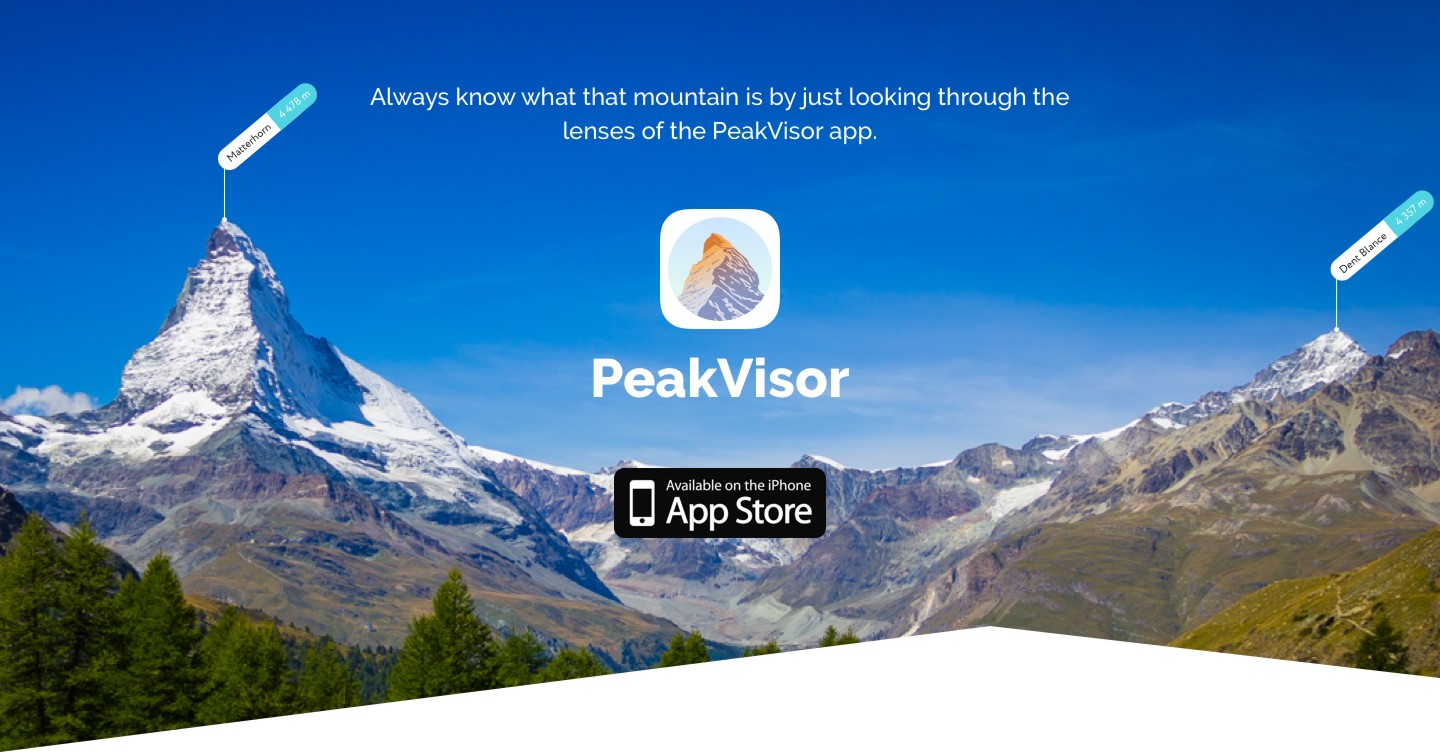
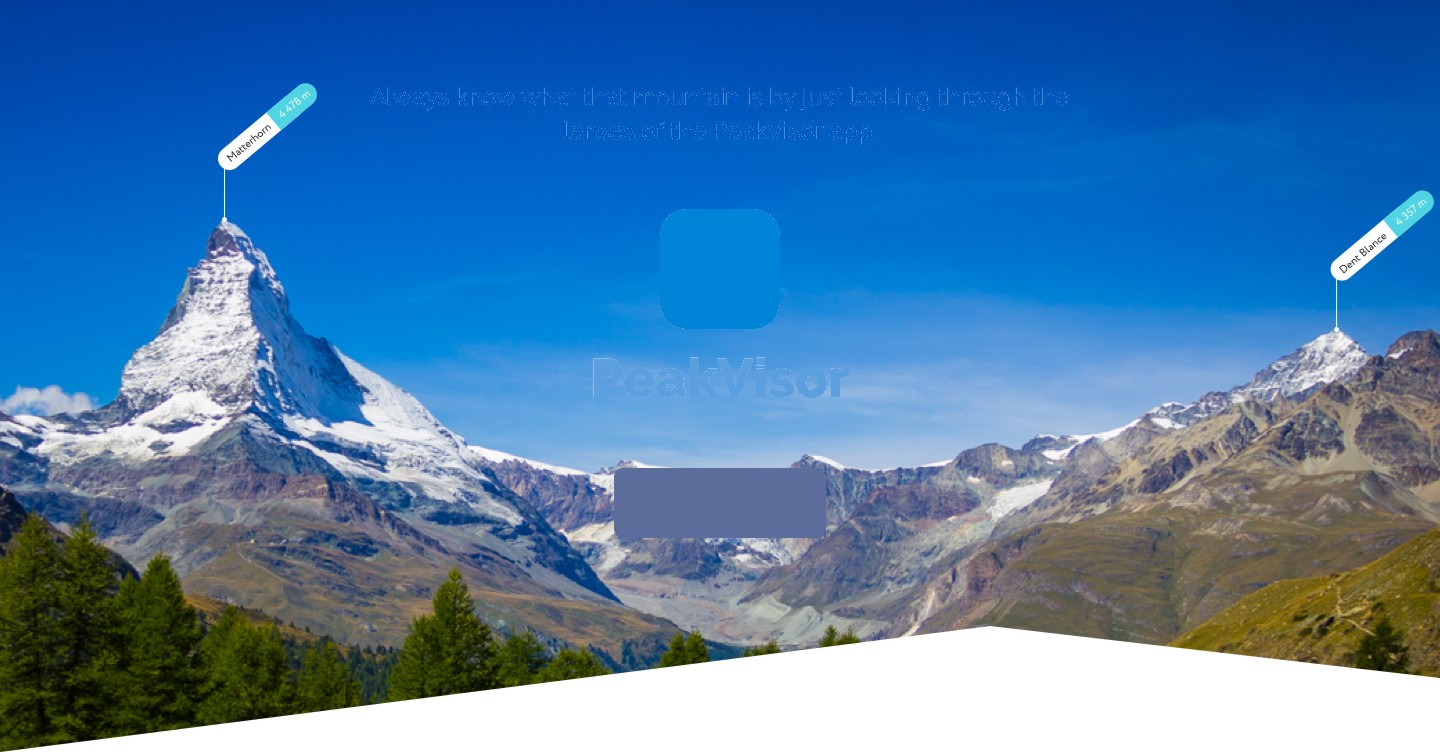
22575:: Landing update +

Changed region(s): [[0.4062, 0.2753, 0.5938, 0.5505], [0.4062, 0.6117, 0.5938, 0.734], [0.25, 0.1223, 0.75, 0.1835]]

diff --git a/public/index.html b/public/index.html
@@ -4,7 +4,7 @@
 <head itemscope itemtype="http://schema.org/WebSite">
 	<meta http-equiv="Content-Type" content="text/html; charset=UTF-8" />
 
-	<title itemprop="name">Peak Visor App</title>
+	<title itemprop="name">Peak VisorApp</title>
 	<meta name="description" content="Walk the streets of Peak Visor, solve puzzles, and learn the history & culture through a truly interactive Peak Visor experience!">
 	<link rel="image_src" href="http://peakvisor/img/pg_top.jpg" />
 
@@ -16,7 +16,7 @@
 	<!-- Twitter App Card data -->
 	<meta name="twitter:card" content="app" />
 	<meta name="twitter:description" content="Walk the streets of Peak Visor, solve puzzles, and learn the history & culture through a truly interactive Peak Visor experience!" />
-	<meta name="twitter:title" content="Peak Visor App" />
+	<meta name="twitter:title" content="PeakVisor App" />
 	<meta name="twitter:site" content="@RoutesTips" />
 	<meta name="twitter:creator" content="@RoutesTips" />
 	<meta name="twitter:image" content="http://peakvisor/img/pg_top.jpg" />
@@ -28,12 +28,12 @@
 	<meta name="twitter:app:id:googleplay" content="tips.routes.peakvisor" />
 
 	<!-- Open Graph data -->
-	<meta property="og:title" content="Peak Visor App" />
+	<meta property="og:title" content="PeakVisor App" />
 	<meta property="og:type" content="website" />
 	<meta property="og:url" content="http://peakvisor.com/" />
 	<meta property="og:image" content="http://peakvisor/img/pg_top.jpg" />
 	<meta property="og:description" content="Walk the streets of Peak Visor, solve puzzles, and learn the history & culture through a truly interactive Peak Visor experience!" />
-	<meta property="og:site_name" content="Peak Visor App" />
+	<meta property="og:site_name" content="PeakVisor App" />
 
 	<meta property="fb:app_id" content="264745753924811" />
 
@@ -52,25 +52,17 @@
 	<div id="Pg" class="pg">
 		<header id="PgTop" class="pg-top">
 			<div class="top-txt">
-				<h1>Peak Visor</h1>
-				<h3>Experience Peak Visor through the game...</h3>
+				<h3>Always know what that mountain is by just looking throught the lenses of the PeakVisor app</h3>
+				<h1>PeakVisor</h1>
 				<a class="but-appsto" href="https://itunes.apple.com/us/app/peak-visor/id1159543023?ls=1&mt=8"></a>
-				<a class="but-g-play" href="https://play.google.com/store/apps/details?id=tips.routes.peakvisor"></a>
 			</div>
-			<div class="top-pic"></div>
 		</header>
 
 		<section class="sect-1">
 			<div class="inner_wrapper">
 				<div class="sect-1_top">
-					<h2>Peak Visor...</h2>
-					<p>Walk the streets of Peak Visor, solve puzzles, and learn the history &amp; culture through a truly interactive quest experience!</p>
-					<p>If you are travelling to Peak Visor or just live in the city then this app is an absolute must-have. Peak Visor allows you to discover the hidden gems of Peak Visor, learn its most hush-hushed secrets while walking the streets of the city in search of puzzles (and their answers). No more bone-dry facts! You learn about the people and their underlying motives, you learn life.</p>
-				</div>
-				<div class="sect-1_toys">
-					<div class="sect-1_toy-1"></div>
-					<div class="sect-1_toy-2"></div>
-					<div class="sect-1_toy-3"></div>
+					<h2>3D mountain panarama</h2>
+					<p>Your phone video camera is augmented with a high precision 3D mountain panarama rendered for your current location. You could easily adjust the compass if needed. By the way, photos shared that way are much more engaging!</p>
 				</div>
 			</div>
 		</section>
@@ -78,37 +70,16 @@
 
 		<section class="sect-2">
 			<div class="inner_wrapper">
-				<h3>Travel Quest Game</h3>
-				<ul class="features">
-					<li>
-						<div class="ico-feat puzzle"></div>
-						<p class="feature_title">Puzzles of Peak Visor</p>
-						<p>31 smart puzzles located throughout Upper and Lower cities of Peak Visor</p>
-					</li>
-					<li>
-						<div class="ico-feat offline"></div>
-						<p class="feature_title">Available Offline</p>
-						<p>You could explore Peak Visor and play the game without Internet access.</p>
-					</li>
-					<li>
-						<div class="ico-feat map"></div>
-						<p class="feature_title">Offline Map</p>
-						<p>Peak Visor provides an option to download Peak Visor map for your convenience.</p>
-					</li>
-					<li>
-						<div class="ico-feat guide"></div>
-						<p class="feature_title">Peak Visor Guide</p>
-						<p>The most fascinating way to explore Peak Visor on your own or with a company.</p>
-					</li>
-				</ul>
+				<h3>3D compass and altimeter</h3>
+				<p>The PeakVisor app has an addictive 3D compass and altimeter for your convenience. You could easily supercharge your mountain hiking experience.</p>
 			</div>
 		</section>
 
 
 		<section class="sect-3">
 			<div class="inner_wrapper">
-				<h4>Experience Peak Visor</h4>
-				<p>Experience Peak Visor and have a deeper insight into its glory through the lenses of the quest game. The game will show you the city from a new angle. It will test your knowledge and wit. And one more thing: it will add some spice to your journey!</p>
+				<h4>Sun trail</h4>
+				<p>There's a Sun trail and the current position of the Sun pictured on top of the camera view. It helps adjusting the compass and plan your trip.</p>
 			</div>
 		</section>
 
@@ -118,7 +89,6 @@
 				<h4>Download Peak Visor</h4>
 				<div class="fin-call-2-act">
 					<a class="but-appsto" href="https://itunes.apple.com/us/app/peak-visor/id1159543023?ls=1&mt=8"></a>
-					<a class="but-g-play" href="https://play.google.com/store/apps/details?id=tips.routes.peakvisor"></a>
 				</div>
 			</div>
 		</section>

diff --git a/public/css/site.css b/public/css/site.css
@@ -146,7 +146,7 @@ body {
 	line-height: 0;
 }
 
-.top-pic {
+/*###.top-pic {
 	float: left;
 	width: 483px;
 	height: 100%;
@@ -161,14 +161,14 @@ body {
 	-webkit-transition: opacity 1.0s linear 1.0s, -webkit-transform 1.0s linear 1.0s;
 	-o-transition: opacity 1.0s linear 1.0s, transform 1.0s linear 1.0s;
 	transition: opacity 1.0s linear 1.0s, transform 1.0s linear 1.0s;
-}
+}*/
 
-.loading .top-pic {
+/*###.loading .top-pic {
 	opacity: 0;
 	-webkit-transform: translate3d(0, 2000px, 0);
 	-ms-transform: translate3d(0, 2000px, 0);
 	transform: translate3d(0, 2000px, 0);
-}
+}*/
 
 .top-txt h1 {
 	margin: 0 0 65px 0;
@@ -186,8 +186,8 @@ body {
 	color: #FFF;
 }
 
-a.but-appsto,
-a.but-g-play {
+a.but-appsto/*###,
+a.but-g-play*/ {
 	display: inline-block;
 	height: 71px;
 	background: url('../img/store_buttons.png') 0 0 no-repeat;
@@ -201,17 +201,17 @@ a.but-appsto {
 	margin-right: 19px;
 }
 
-a.but-g-play {
+/*###a.but-g-play {
 	width: 245px;
 	background-position: -213px 0;
-}
+}*/
 
-.top-txt a.but-g-play {
+/*###.top-txt a.but-g-play {
 	margin-right: -20px;
-}
+}*/
 
-a.but-appsto:hover,
-a.but-g-play:hover {
+a.but-appsto:hover/*###,
+a.but-g-play:hover*/ {
 	opacity: 0.67;
 }
 
@@ -222,7 +222,7 @@ a.but-g-play:hover {
 	width: 100%;
 	height: 653px;
 	padding-top: 87px;
-	background-color: #FFF;
+	background: rgb(255, 255, 255) url('../img/sec_1.png') 50% 50% no-repeat;
 }
 
 .sect-1_top {
@@ -249,14 +249,14 @@ a.but-g-play:hover {
 	margin: 0;
 }
 
-.sect-1_toys {
+/*###.sect-1_toys {
 	width: 932px;
 	height: 434px;
 	margin: 0 auto;
 	overflow: hidden;
-}
+}*/
 
-.sect-1_toy-1,
+/*###.sect-1_toy-1,
 .sect-1_toy-2,
 .sect-1_toy-3 {
 	float: left;
@@ -268,30 +268,30 @@ a.but-g-play:hover {
 	-webkit-transition: -webkit-transform 0.4s linear;/*###ease-in-out*/
 	-o-transition: transform 0.4s linear;/*###ease-in-out*/
 	transition: transform 0.4s linear;/*###ease-in-out*/
-}
+}*/
 
-.sect-1_toy-1 {
+/*###.sect-1_toy-1 {
 	background-image: url('../img/phone_1.png');
-}
+}*/
 
-.sect-1_toy-2 {
+/*###.sect-1_toy-2 {
 	width: 285px;
 	margin-left: 39px;
 	background-image: url('../img/phone_2.png');
-}
+}*/
 
-.sect-1_toy-3 {
+/*###.sect-1_toy-3 {
 	margin-left: 40px;
 	background-image: url('../img/phone_3.png');
-}
+}*/
 
-.sect-1_toy-1:hover,
+/*###.sect-1_toy-1:hover,
 .sect-1_toy-2:hover,
 .sect-1_toy-3:hover {
 	-webkit-transform: translate3d(0, -30px, 0);
 	-ms-transform: translate3d(0, -30px, 0);
 	transform: translate3d(0, -30px, 0);
-}
+}*/
 
 
 
@@ -299,7 +299,7 @@ a.but-g-play:hover {
 	float: left;
 	width: 100%;
 	padding-top: 77px;
-	background-color: rgb(13, 116, 145);
+	background: rgb(220, 243, 245) url('../img/sec_2.png') 50% 50% no-repeat;
 }
 
 .sect-2 h3 {
@@ -369,7 +369,7 @@ ul.features li {
 	min-height: 195px;
 	padding-top: 87px;
 	padding-bottom: 180px;
-	background: rgb(255, 255, 255) url('../img/city.png') 50% 100% repeat-x;
+	background: rgb(255, 255, 255) url('../img/sec_3.png') 50% 50% no-repeat;
 }
 
 .sect-3 .inner_wrapper {
@@ -396,7 +396,7 @@ ul.features li {
 	width: 100%;
 	height: 229px;
 	padding-top: 96px;
-	background: #2A1040 url('../img/footer_background.jpg') 50% 50% no-repeat;
+	background: #2A1040 url('../img/pg_bottom.jpg') 50% 50% no-repeat;
 	background-size: cover;
 }
 
@@ -489,11 +489,11 @@ ul.features li {
 		text-align: center;
 	}
 
-	.top-txt a.but-g-play {
+	/*###.top-txt a.but-g-play {
 		margin-right: 0px;
-	}
+	}*/
 
-	.top-pic {
+	/*###.top-pic {
 		float: none;
 		position: absolute;
 		left: 33.33%;
@@ -502,20 +502,20 @@ ul.features li {
 		height: 51.5%;
 		margin: 0;
 		background-size: 100%;
-	}
+	}*/
 
 	.top-txt h1 {
 		display: inline-block;
 		margin-bottom: 25px;
 	}
 
-	.sect-1_toys {
+	/*###.sect-1_toys {
 		width: 608px;
-	}
+	}*/
 
-	.sect-1_toy-3 {
+	/*###.sect-1_toy-3 {
 		display:none;
-	}
+	}*/
 }
 
 
@@ -536,19 +536,19 @@ ul.features li {
 
 
 @media screen and (max-width: 780px) {
-	.sect-1_toys {
+	/*###.sect-1_toys {
 		width: 100%;
-	}
+	}*/
 
-	.sect-1_toy-1 {
+	/*###.sect-1_toy-1 {
 		float: none;
 		margin-left: auto;
 		margin-right: auto;
-	}
+	}*/
 
-	.sect-1_toy-2 {
+	/*###.sect-1_toy-2 {
 		display:none;
-	}
+	}*/
 
 	.sect-2 h3 {
 		padding-left: 40px;
@@ -587,8 +587,8 @@ ul.features li {
 		margin-bottom: 30px;
 	}
 
-	.top-txt a.but-appsto,
-	.top-txt a.but-g-play {
+	.top-txt a.but-appsto/*###,
+	.top-txt a.but-g-play*/ {
 		display: block;
 		margin-left: auto;
 		margin-right: auto;
@@ -642,8 +642,8 @@ ul.features li {
 		margin-bottom: 30px;
 	}
 
-	.sect-4 a.but-appsto,
-	.sect-4 a.but-g-play {
+	.sect-4 a.but-appsto/*###,
+	.sect-4 a.but-g-play*/ {
 		display: block;
 		margin-left: auto;
 		margin-right: auto;
